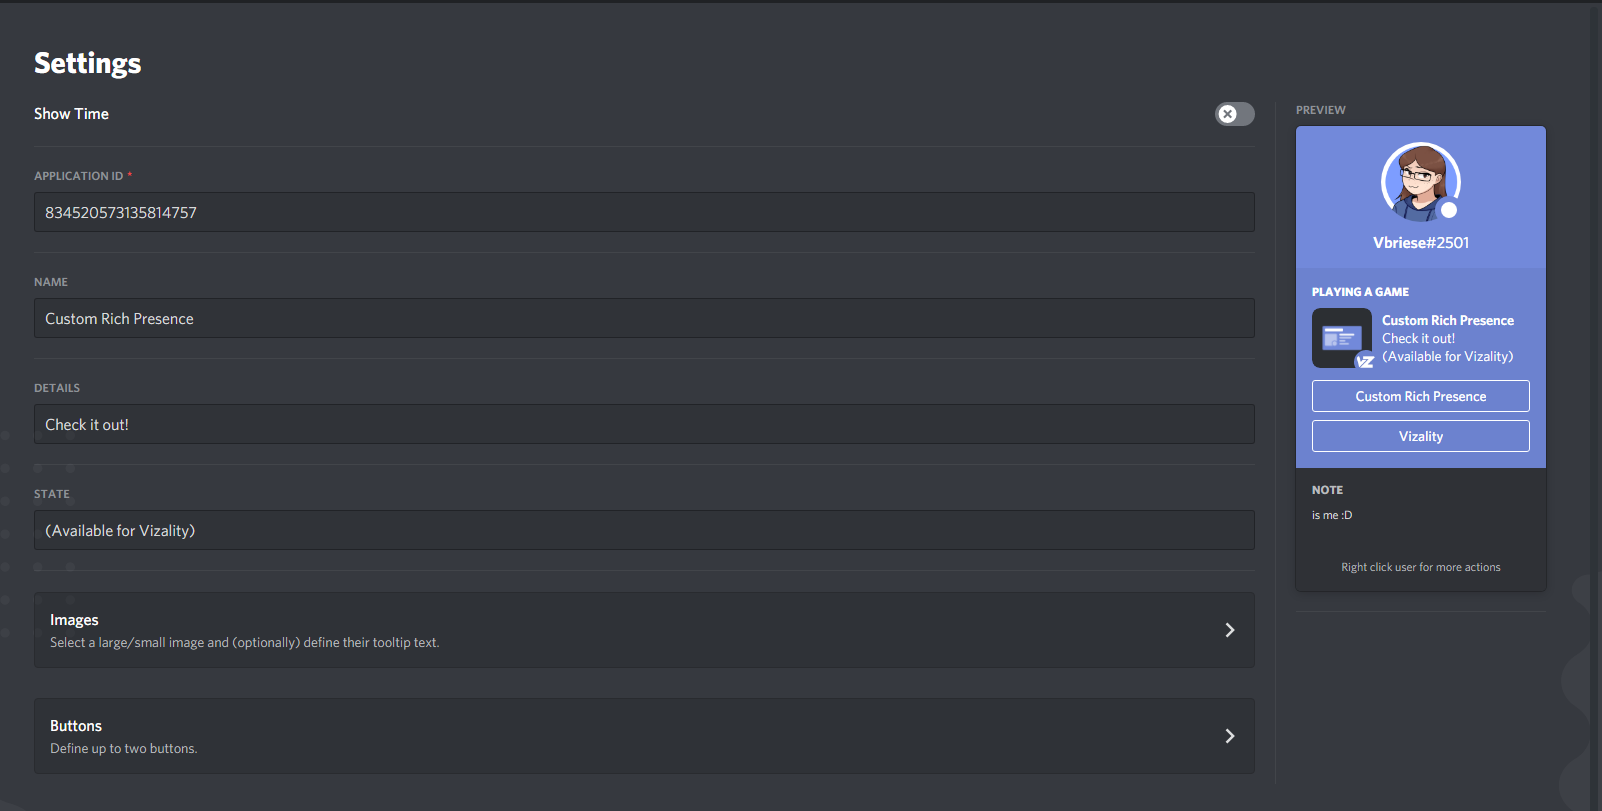
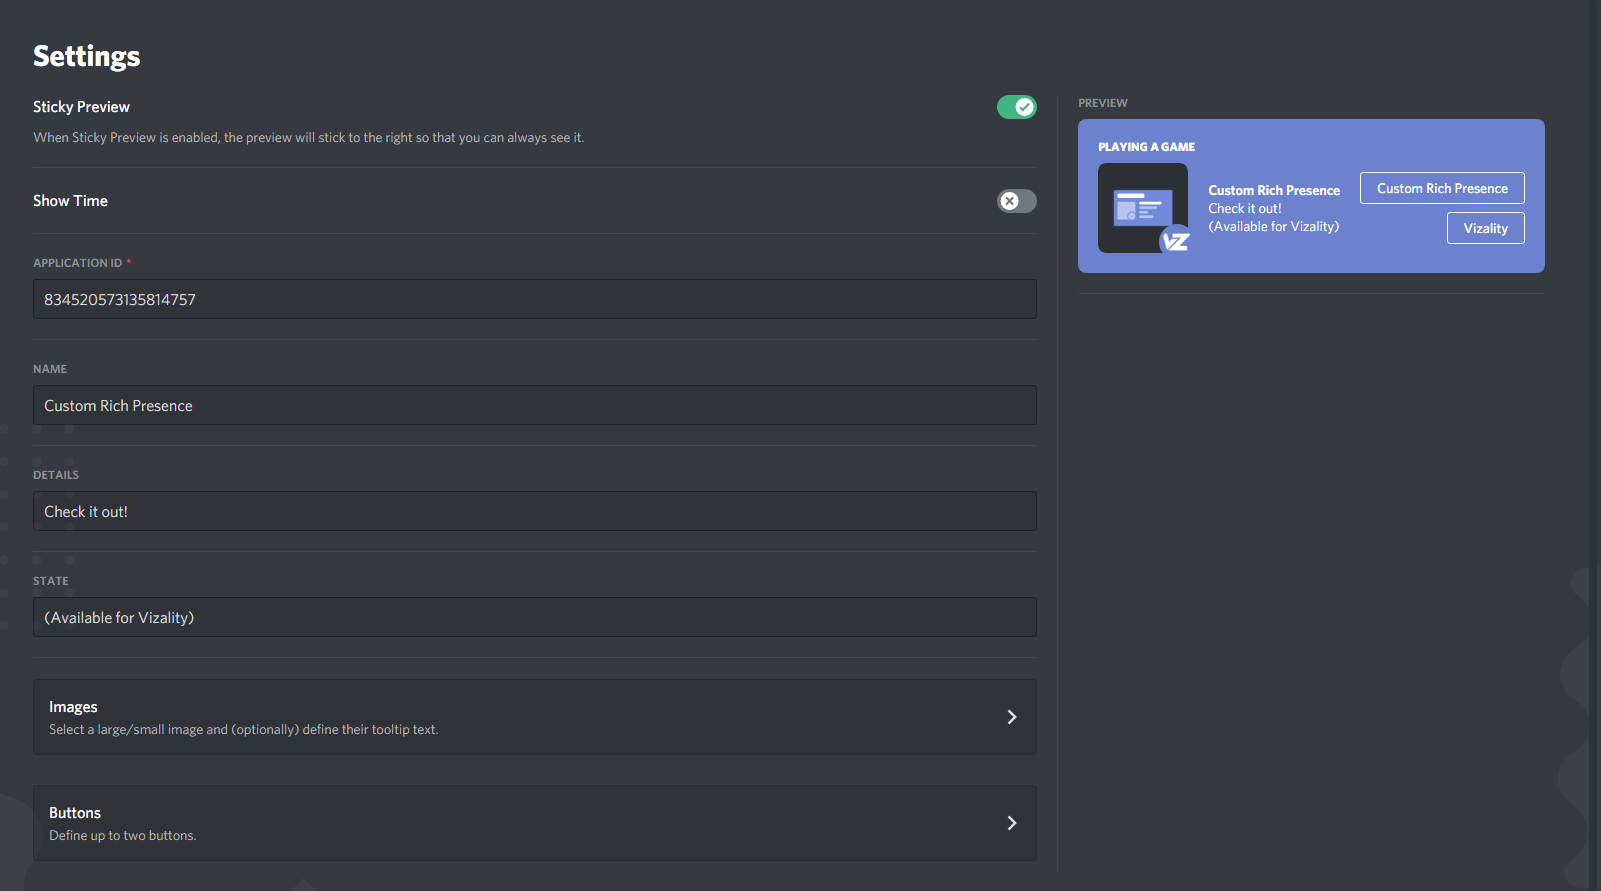
More changes to the preview

diff --git a/components/Settings.jsx b/components/Settings.jsx
@@ -1,13 +1,9 @@
 import React, { Component } from "react";
 
-import { getModule, getModuleByDisplayName } from "@vizality/webpack";
-import {
-	SwitchItem,
-	TextInput,
-	Category,
-	FormItem,
-} from "@vizality/components/settings";
+import { SwitchItem, TextInput, Category } from "@vizality/components/settings";
 import { Flex } from "@vizality/components";
+
+import Preview from "./Preview";
 
 export default class Settings extends Component {
 	constructor(props) {
@@ -28,19 +24,27 @@ export default class Settings extends Component {
 			defaults,
 		} = this.props;
 
-		const UserProfile = getModuleByDisplayName("UserProfile");
-		const { getCurrentUser } = getModule("getCurrentUser");
-
 		return (
 			<Flex justify={Flex.Justify.BETWEEN} align={Flex.Align.START}>
 				<Flex.Child
 					grow={2}
-					style={{
-						paddingRight: "20px",
-						borderRight: "thin solid var(--background-modifier-accent)",
-						marginRight: "20px",
-					}}
+					style={
+						getSetting("sticky_preview", false) && {
+							paddingRight: "20px",
+							borderRight: "thin solid var(--background-modifier-accent)",
+							marginRight: "20px",
+						}
+					}
 				>
+					<SwitchItem
+						note="When Sticky Preview is enabled, the preview will stick to the right so that you can always see it."
+						value={getSetting("sticky_preview", false)}
+						onChange={() => {
+							toggleSetting("sticky_preview");
+						}}
+					>
+						Sticky Preview
+					</SwitchItem>
 					<SwitchItem
 						value={getSetting("show_time", true)}
 						onChange={() => {
@@ -205,16 +209,11 @@ export default class Settings extends Component {
 							Button 2 Url
 						</TextInput>
 					</Category>
+
+					{!getSetting("sticky_preview", false) && <Preview />}
 				</Flex.Child>
 
-				<div style={{ top: "40px", position: "sticky" }}>
-					<FormItem title="Preview">
-						<UserProfile user={getCurrentUser()} />
-						{
-							//todo Figure how to get the note to behave in UserPopout so that can be used instead
-						}
-					</FormItem>
-				</div>
+				{getSetting("sticky_preview", false) && <Preview />}
 			</Flex>
 		);
 	}

diff --git a/components/Preview.jsx b/components/Preview.jsx
@@ -1,0 +1,39 @@
+import React, { Component } from "react";
+
+import { getModule, getModuleByDisplayName } from "@vizality/webpack";
+import { FormItem } from "@vizality/components/settings";
+import { Spinner } from "@vizality/components";
+
+export default class Preview extends Component {
+	render() {
+		const UserProfile = getModuleByDisplayName("UserProfile");
+		const { getCurrentUser } = getModule("getCurrentUser");
+
+		return (
+			<>
+				<Spinner id="custom-rich-presence-preview-spinner" />
+				<div id="custom-rich-presence-preview" style={{ display: "none" }}>
+					<FormItem title="Preview">
+						<UserProfile user={getCurrentUser()} />
+					</FormItem>
+				</div>
+			</>
+		);
+	}
+
+	componentDidMount() {
+		setTimeout(() => {
+			const profile = document.getElementById("custom-rich-presence-preview")
+				.children[0].children[1];
+
+			profile.style = "width: auto;";
+			profile.children[1].remove();
+			profile.children[0].children[0].remove();
+
+			document.getElementById("custom-rich-presence-preview-spinner").style =
+				"display: none;";
+			document.getElementById("custom-rich-presence-preview").style =
+				"top: 40px; position: sticky;";
+		}, 500);
+	}
+}

diff --git a/index.js b/index.js
@@ -2,6 +2,7 @@ import React from "react";
 import { Plugin } from "@vizality/entities";
 
 import { getModule } from "@vizality/webpack";
+
 import Settings from "./components/Settings";
 
 const { SET_ACTIVITY } = getModule("INVITE_BROWSER", false);
